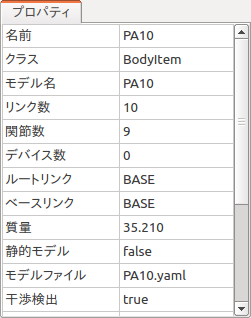
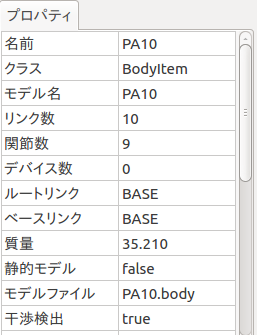
Change the extension from yaml to body

Changed region(s): [[0.0, 0.0, 1.0, 1.0]]

diff --git a/ja/handling-models/modelfile/modelfile-yaml.rst b/ja/handling-models/modelfile/modelfile-yaml.rst
@@ -2,7 +2,7 @@
 .. highlight:: yaml
 
 YAMLによる追加情報の記述
-========================
+==============
 
 ChoreonoidではOpenHRP形式のモデルファイルを読み込むことができますが、さらにYAML形式のファイルと組み合わせることで、追加の情報を記述できるようになっています。モデルにこのファイルが用意されている場合は、そちらを読み込むようにすると、Choreonoidの機能を最大限に利用できるようになります。
 
@@ -11,9 +11,9 @@ ChoreonoidではOpenHRP形式のモデルファイルを読み込むことがで
    :depth: 1
 
 SR1サンプルモデルの追加情報
----------------------------
+---------------
 
-以下に示すのは、SR1サンプルモデルの追加情報ファイル (SR1.yaml) の内容です。この例を通して、追加情報の具体的な記述方法を説明したいと思います。 ::
+以下に示すのは、SR1サンプルモデルの追加情報ファイル (SR1.body) の内容です。この例を通して、追加情報の具体的な記述方法を説明したいと思います。 ::
 
  modelFile: SR1.wrl
  
@@ -70,7 +70,7 @@ SR1サンプルモデルの追加情報
 
 
 モデルファイル本体の指定
-------------------------
+------------
 
 追加情報ファイルはあくまでモデルファイル本体に対して情報を追加するものであるため、まず本体となるモデルファイルが何であるかを明示しておく必要があります。
 
@@ -81,7 +81,7 @@ SR1サンプルモデルの追加情報
 追加情報ファイルと本体のファイルが同じディレクトリにある場合は、本体のファイル名のみでOKです。違うディレクトリにある場合は、そのディレクトリへの相対パスで記述します。
 
 標準姿勢の設定
---------------
+-------
 
 :doc:`../pose-editing` の :ref:`model_body_bar` で紹介した「標準姿勢」は、実際には追加情報ファイルに記述されています。これを行っているのが以下の部分です。 ::
 
@@ -96,7 +96,7 @@ SR1サンプルモデルの追加情報
 このように "standardPose" というキーに標準姿勢に対応する関節角をリストとして記述します。関節角を並べる順番は関節IDの順で、関節角の単位は [degree] （直動関節の場合は [m]）になります。
 
 リンクのグループ構造の設定
---------------------------
+-------------
 
 :doc:`../bodymodel` の :ref:`model_structure` で紹介した「リンクビュー」では、モデルが有するリンクの一覧が表示され、モデルの構造を確認することができました。また、ここで編集操作の対象となるリンクを選択することもできました。
 
@@ -140,7 +140,7 @@ SR1サンプルモデルの追加情報
 ここでは、マップとリストの組み合わせでグループとそこに分類されるリンクを記述しています。"name" はグループ名を表していて、"links" 以下にそこに所属するリンクや下位のグループを記述しています。
 
 足リンクの設定
---------------
+-------
 
 脚型のモデルについては、どのリンクが足のリンクであるかを明示し、さらに足の操作に関する情報を記述しておくことで、Choreonoidが提供する脚型モデルを対象とした機能を活用できるようになります。これを行っているのが以下の部分です。 ::
 
@@ -157,7 +157,7 @@ SR1サンプルモデルの追加情報
 .. _modelfile_yaml_preset_kinematics:
 
 プリセット運動学の設定
-----------------------
+-----------
 
 :doc:`../pose-editing` - :ref:`model_kinematics_mode` で述べた「プリセット運動学モード」では、ユーザが動かそうとしてるリンクに応じて自動的に順運動学と逆運動学が切り替わるようになっていました。この設定を行っているのが、追加情報ファイルにおける以下の部分です。 ::
 
@@ -175,7 +175,7 @@ SR1サンプルモデルの追加情報
 このように、プリセット運動学モード時に逆運動学としたいリンクと、その際のベースリンクを指定すればOKです。
 
 干渉検出の設定
---------------
+-------
 
 "collisionDetection"キーでは干渉検出に関わる設定が記述されています。 ::
 
@@ -191,6 +191,6 @@ SR1サンプルモデルの追加情報
 
 
 その他の情報の記述について
---------------------------
+-------------
 
 以上、SR1サンプルで記述されている主な情報について説明しましたが、追加情報ファイルにはYAML形式であればどのような情報を記述してもOKです。その内容はChoreonoid内部で読めるようになっており、各機能はこれによって必要な情報を得ることができます。これによって、新たに導入するプラグインが要求する情報を記述しておけば、そのプラグインの機能を使えるようになりますし、ユーザがプラグインを開発する場合でも、必要な情報をユーザが定義して利用することができます。このように、YAMLによる追加情報ファイルは柔軟に扱えるようになっており、Choreonoidの機能拡張においても重要な役割を果たす仕組みとなっています。

diff --git a/ja/plugin-development/sample1.rst b/ja/plugin-development/sample1.rst
@@ -80,7 +80,7 @@ Sample1Pluginの解説
 
 これらのボタンを押すことで、ロボットモデルのポーズが変わります。
 
-まずは、適当なロボットモデルをChoreonoid上に読み込んで表示させてください。例えば、「スタートアップガイド」で紹介したサンプルプロジェクト"GR001Sample.cnoid"を読みこめば、GR001のロボットモデルが表示されます。メインメニューの「ファイル」-「読み込み」-「ボディ」を選択して、GR001のモデルファイル"GR001.yaml"のみを読み込んでもらってもOKです。（この場合、読み込んだ後にアイテムビュー上でチェックを入れて、シーンビュー上でロボットが表示されるようにしておいてください。）
+まずは、適当なロボットモデルをChoreonoid上に読み込んで表示させてください。例えば、「スタートアップガイド」で紹介したサンプルプロジェクト"GR001Sample.cnoid"を読みこめば、GR001のロボットモデルが表示されます。メインメニューの「ファイル」-「読み込み」-「ボディ」を選択して、GR001のモデルファイル"GR001.body"のみを読み込んでもらってもOKです。（この場合、読み込んだ後にアイテムビュー上でチェックを入れて、シーンビュー上でロボットが表示されるようにしておいてください。）
 
 シーンビュー上でのロボットの表示を確認したら、アイテムビュー上でロボットのアイテムを選択状態にしておきます。複数のロボットモデルが読み込まれている場合でも、この選択状態によってポーズ変更の対象となるモデルを指定できます。複数のモデルを同時に動かしたい場合は、"Ctrl"キーを押しながらアイテムをクリックするなどして、複数選択状態にしておけばOKです。逆にモデルが何も選択されていないときは、ロボットのポーズは変わりませんので、ご注意ください。
 
